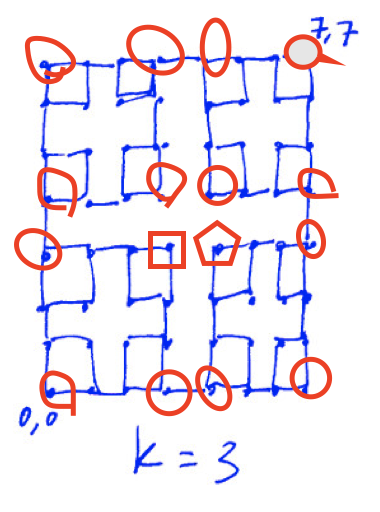
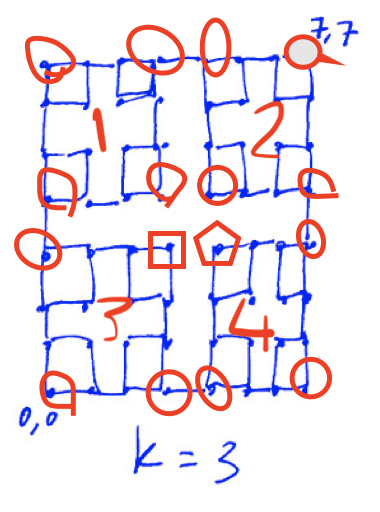
Added o62_may16_gg

diff --git a/md/o62_may16_gg.md b/md/o62_may16_gg.md
@@ -1,0 +1,13 @@
+วิธีทำข้อนี้มีหลายแบบ ก่อนอื่นเราจะขอนิยาม "จุดสำคัญ" 16 จุดดังที่วงไว้ในวงกลมสีแดงในรูปข้างล่าง และ โซนทั้งหมด 4 โซน
+
+สมมติว่าจุดทั้งสองจุดที่ถามอยู่ในโซนเดียวกันในแผนภูมิขนาดหนึ่ง ให้เรา "ย่อ" เข้าไปในโซนนั้น ๆ ได้เลย เพราะเส้นทางที่สั้นที่สุดจะไม่ออกจากโซนนั้นแน่นอน เมื่อเราทำการย่อเข้าไป เราจะได้พิกัดใหม่และค่า $k$ ใหม่ ให้เราย่อไปเรื่อย ๆ จนกว่าจุดทั้งสองจุดจะอยู่คนละโซนกัน
+
+จากนั้นให้เราคำนวณเส้นทางที่สั้นที่สุดระหว่างจุดที่เราถามและจุดสำคัญ 4 จุดที่อยู่รอบโซน ๆ นั้น เราสามารถทำได้โดยการ "ย่อ" เข้าไปในโซนย่อยของมันในโซนนั้นอีกเพื่อที่จะหาระยะที่สั้นที่สุดไปถึงจุดสำคัญ 4 จุดที่อยู่รอบโซนย่อย ๆ นั้น และคำนวณคำตอบโดยการลองทุก ๆ วิธีในการเดิน การย่อนั้นเราจะทำเป็นแบบ recursive นั่นคือเราจะย่อไปเรื่อย ๆ จนกว่าจะถึง base case แล้วค่อย ๆ คำนวณคำตอบมาในแต่ละชั้น
+
+![รูปที่ 1](https://raw.githubusercontent.com/programming-in-th/solutions/master/media/o62_may16_gg/001.png)
+
+เมื่อเราระยะทางสั้นที่สุดระหว่างจุดที่เราจะถามและจุดสำคัญรอบ ๆ โซนมันสี่จุดแล้ว ให้เรามองเป็นกราฟ 18 จุดที่มีเส้นเชื่อมตามรูปที่ 2 โดยจุดยอดสีม่วงคือจุดที่เราถามและเส้นสีม่วงคือระยะทางที่เราคำนวณมา จากนั้นให้หาระยะทางที่สั้นที่สุดระหว่างจุดสีม่วงทั้งสองจุด โดยอาจจะใช้ algorithm อะไรก็ได้เนื่องจากกราฟมีขนาดเล็กมาก แต่ผู้เขียนแนะนำให้ใช้ floyd-warshall เพื่อความรวดเร็ว
+
+![รูปที่ 2](https://raw.githubusercontent.com/programming-in-th/solutions/master/media/o62_may16_gg/002.png)
+
+เราจะได้อัลกอริธึมที่แก้ปัญหานี้ได้ใน $\mathcal{O}(4^2k+16^3)$
